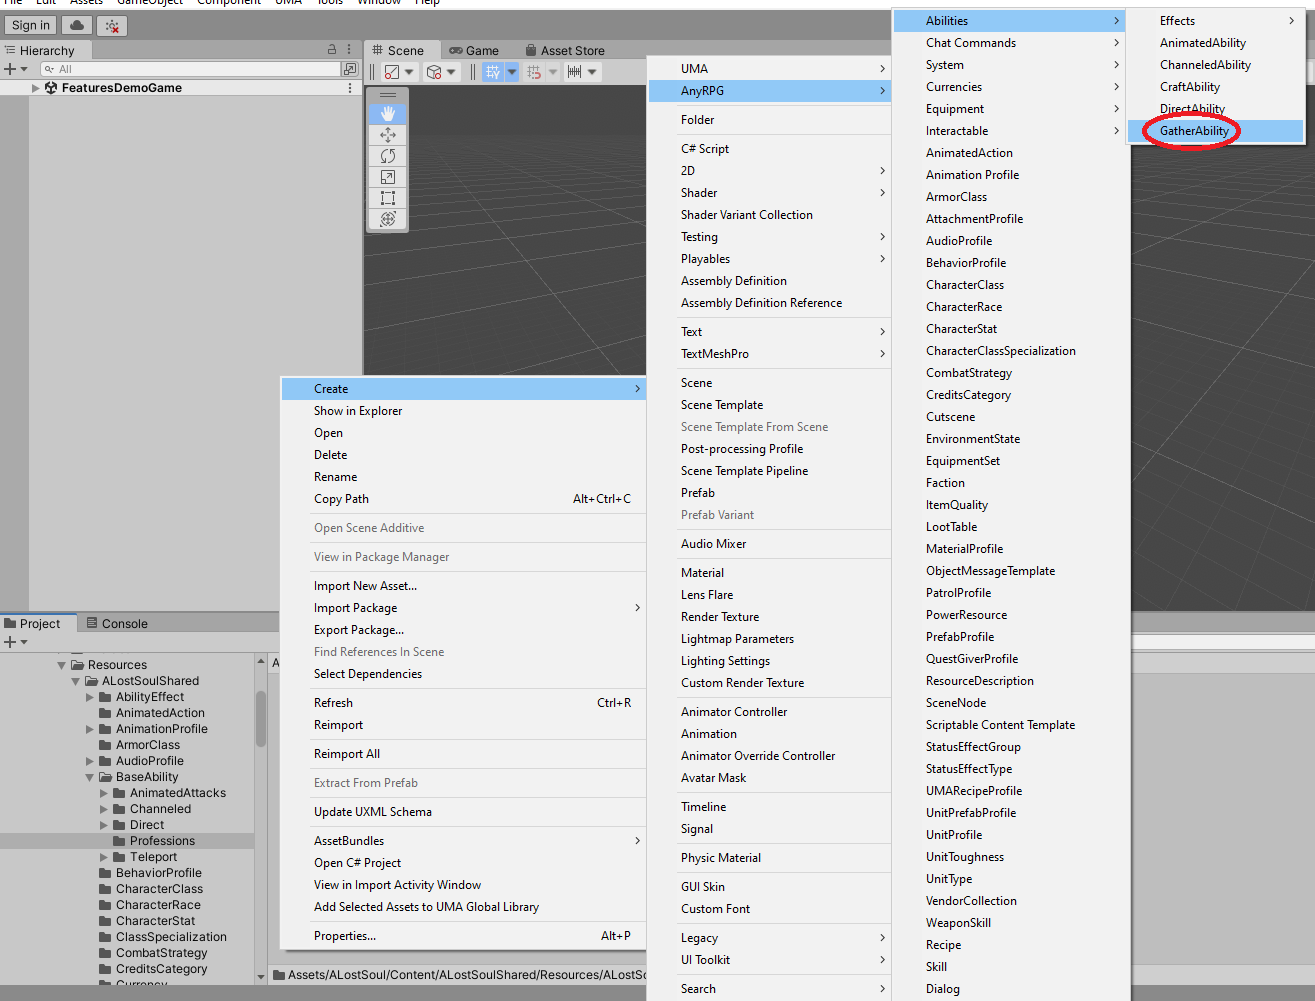
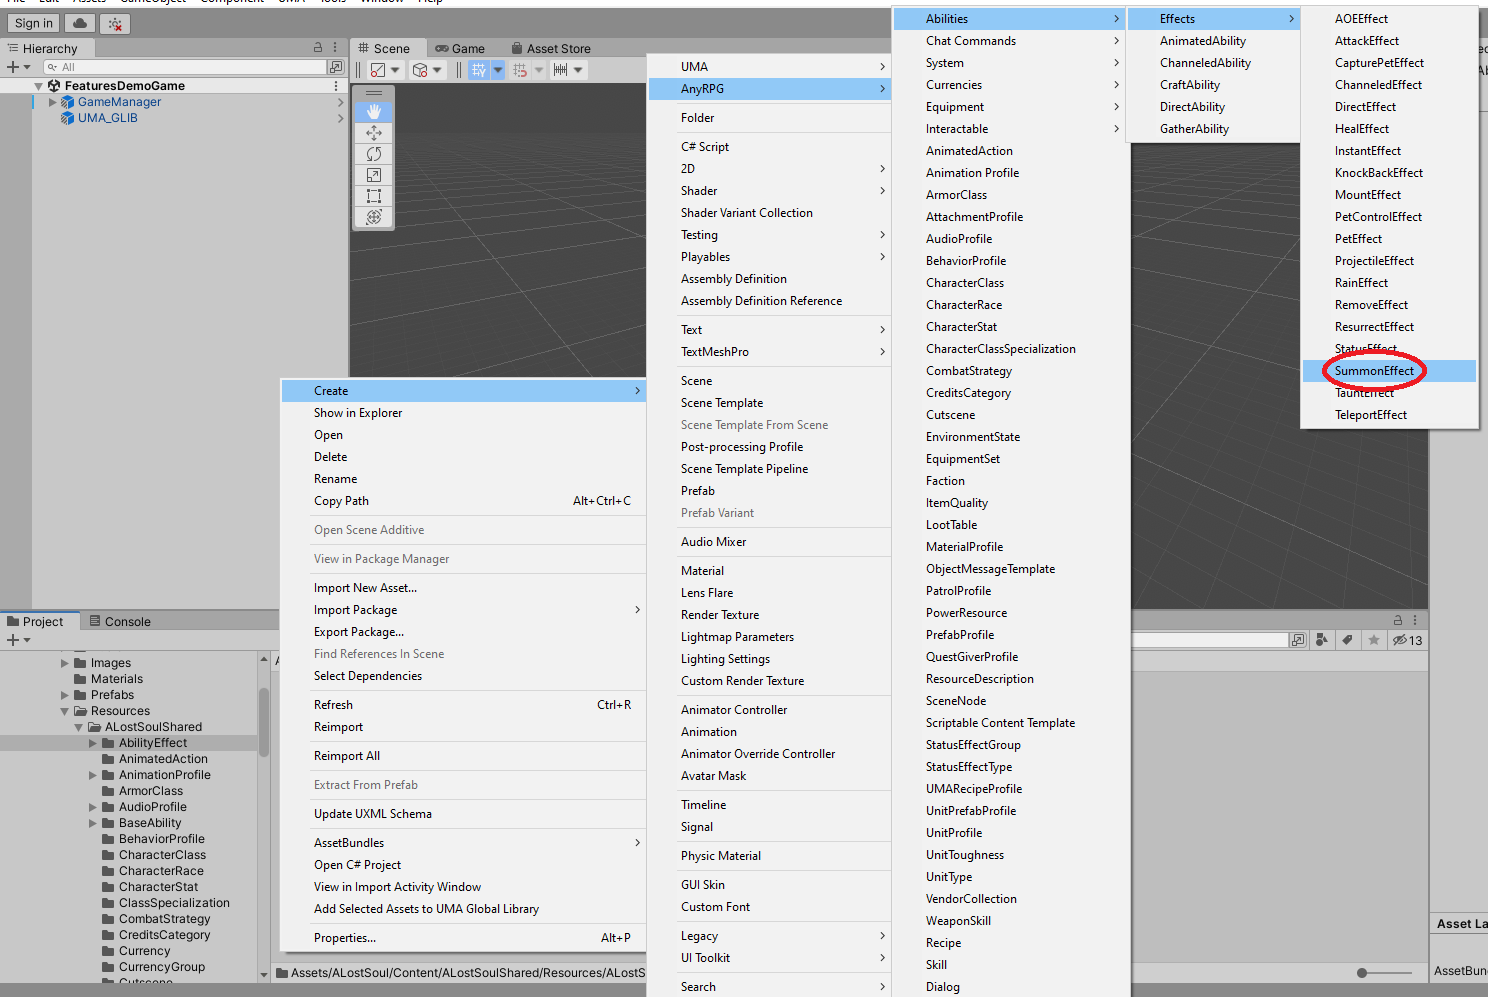
GitBook: [#107] add summon effect documentation

diff --git a/scriptable-objects/ability-effects/summon-effect.md b/scriptable-objects/ability-effects/summon-effect.md
@@ -1,5 +1,24 @@
+---
+description: A summon effect summons a character to act as a pet.
+---
+
 # Summon Effect
 
-{% hint style="info" %}
-Coming Soon
-{% endhint %}
+## Creation
+
+To create a summon effect, find (or create) the _GameName/Resources/GameName/AbilityEffect_ folder (or any subfolder) in the project tab and right click.  Choose _Create > AnyRPG > Abilities > Effects > SummonEffect_.
+
+![](<../../.gitbook/assets/image (6).png>)
+
+## Properties
+
+In addition to all the properties of its parent class, [Fixed Length Effect](./#fixed-length-effect-properties), summon effects have the following properties.
+
+| Name              | Description                                                                      |
+| ----------------- | -------------------------------------------------------------------------------- |
+| Unit Profile Name | The [Unit Profile](../unit-profile.md) of the character to be summoned as a pet. |
+
+## Next steps
+
+* Add a summon effect to an [Ability](../abilities/).
+* Add a summon effect to another [Ability Effect](./) to chain them together.

diff --git a/scriptable-objects/abilities/gather-ability.md b/scriptable-objects/abilities/gather-ability.md
@@ -11,7 +11,7 @@ description: >-
 
 To create a gather ability, find (or create) the _GameName/Resources/GameName/BaseAbility_ folder (or any subfolder) in the project tab and right click.  Choose _Create > AnyRPG > Abilities > GatherAbility_.
 
-![](<../../.gitbook/assets/image (6).png>)
+![](<../../.gitbook/assets/image (6) (1).png>)
 
 ## Properties
 

diff --git a/wizards/new-game-wizard.md b/wizards/new-game-wizard.md
@@ -51,7 +51,7 @@ After choosing the appropriate options for your game, click Create.
 
 A folder structure similar to what is shown in the picture below will have been created.
 
-![](<../.gitbook/assets/image (6) (1).png>)
+![](<../.gitbook/assets/image (6) (1) (1).png>)
 
 ### Game Manager Prefabs
 
